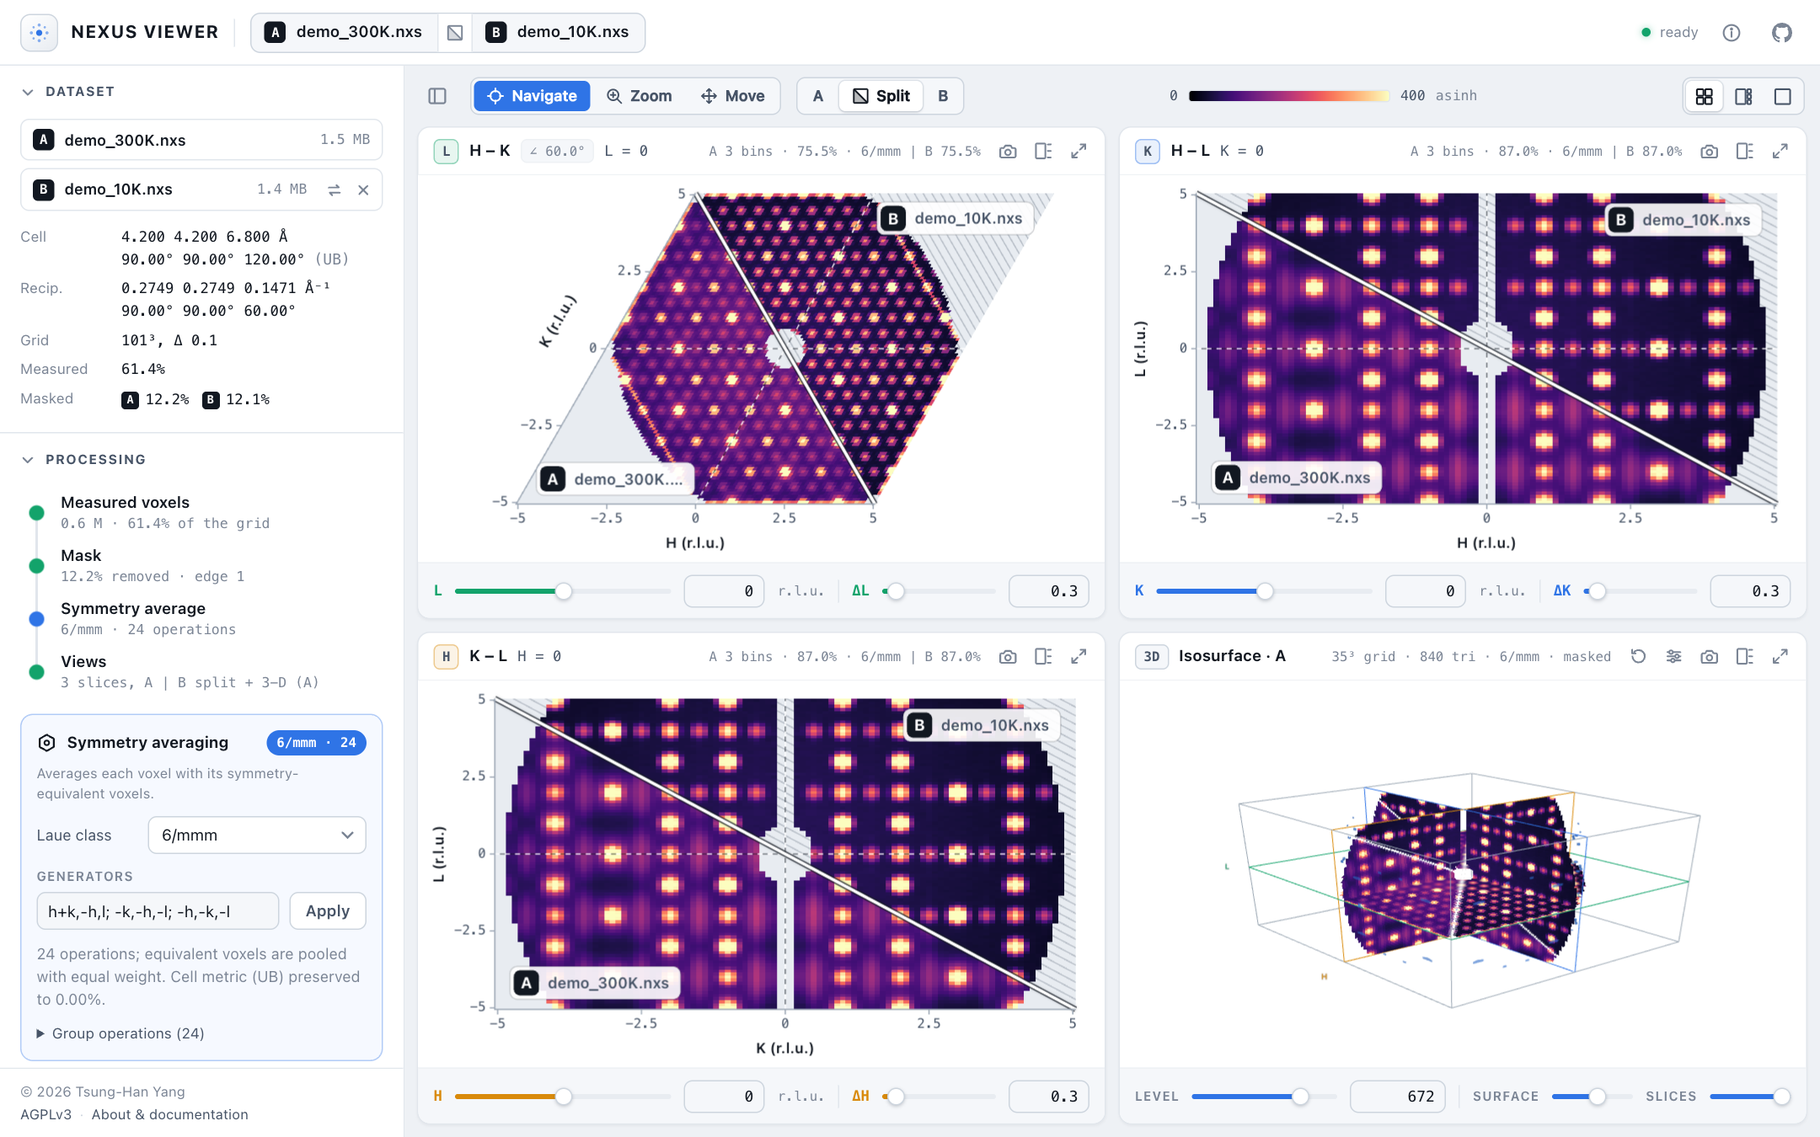
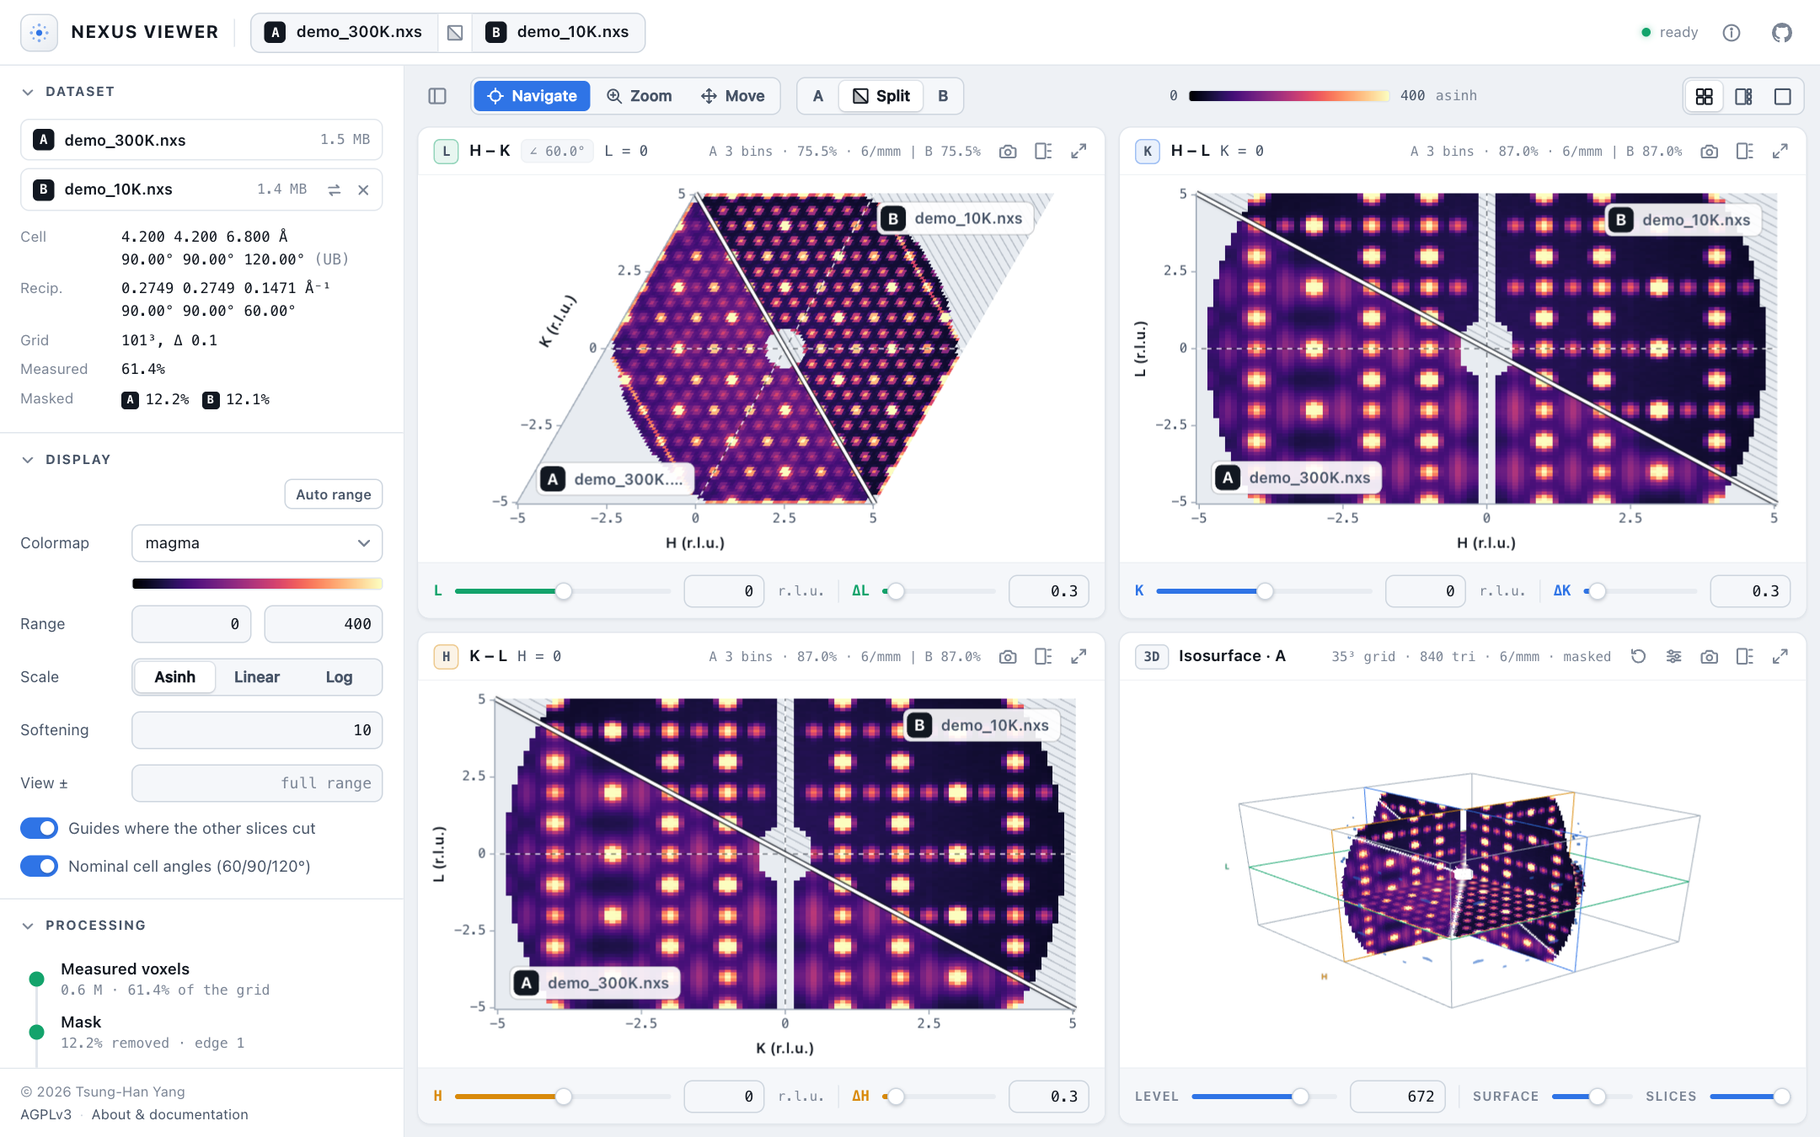
Order the panel as the workflow: Dataset, Display, Processing, then Export to NEBULA3D

Changed region(s): [[0.0, 0.4356, 0.2171, 0.9333], [0.031, 0.3733, 0.062, 0.4044]]

diff --git a/index.html b/index.html
@@ -175,7 +175,9 @@ body.panel-collapsed .panel { visibility: hidden; }
 .credit .sep { margin: 0 6px; color: var(--border-strong); }
 .credit a { color: var(--text-2); text-decoration: none; }
 .credit a:hover { color: var(--accent-hi); text-decoration: underline; }
-.panel-foot { position: sticky; bottom: 0; margin-top: auto; display: flex; flex-direction: column; gap: 2px; padding: 10px 16px; border-top: 1px solid var(--border); background: var(--surface); }
+.panel-foot { position: sticky; bottom: 0; margin-top: auto; display: flex; flex-direction: column; gap: 2px; padding: 10px 16px; border-top: 1px solid var(--border); background: var(--surface); z-index: 3; }
+/* Scrolled-to elements stop above the sticky footer. */
+.panel .sub, .panel .psec-body { scroll-margin-bottom: 64px; }
 .psec { border-bottom: 1px solid var(--border); }
 .psec-head { display: flex; align-items: center; gap: 8px; width: 100%; height: 42px; padding: 0 16px; border: 0; background: transparent; cursor: pointer; text-align: left; }
 .psec-head:hover .psec-title { color: var(--text); }
@@ -245,6 +247,8 @@ body.panel-collapsed .panel { visibility: hidden; }
 .legend { display: flex; align-items: center; gap: 8px; min-width: 0; font-family: var(--font-mono); font-size: 11px; color: var(--text-2); }
 .legend canvas { width: 160px; height: 10px; border-radius: 3px; border: 1px solid var(--border); }
 .legend .scale-name { color: var(--text-3); }
+.legend { cursor: pointer; padding: 4px 8px; border-radius: var(--radius-sm); }
+.legend:hover { background: var(--surface); }
 .workspace { flex: 1; min-height: 0; padding: 0 10px 10px; display: grid; gap: 10px; }
 .workspace.quad { grid-template-columns: repeat(2, minmax(0, 1fr)); grid-template-rows: repeat(2, minmax(0, 1fr)); }
 .workspace.focus { grid-template-columns: minmax(0, 2.2fr) minmax(0, 1fr); grid-template-rows: repeat(3, minmax(0, 1fr)); }
@@ -470,6 +474,22 @@ body.dragging.drop-b::after { content: "Drop to compare as dataset B"; }
       </div>
     </section>
 
+    <section class="psec" data-sec="display">
+      <button class="psec-head" type="button" aria-expanded="true"><svg class="chev" width="12" height="12" viewBox="0 0 12 12" aria-hidden="true"><path d="M2.5 4.5 6 8l3.5-3.5" fill="none" stroke="currentColor" stroke-width="1.4" stroke-linecap="round" stroke-linejoin="round"/></svg><span class="psec-title">Display</span><span id="sum-display" class="psec-sum"></span></button>
+      <div class="psec-body">
+        <div class="inline" style="justify-content: flex-end; margin-top: -6px"><button id="auto" class="btn btn-ghost btn-xs" type="button" title="vmin 0, vmax at the 97th percentile and softening at the median of positive values in the current slices">Auto range</button></div>
+        <div class="prow"><label class="plabel" for="cmap">Colormap</label><select id="cmap"></select></div>
+        <div class="prow"><span class="plabel"></span><canvas id="cmap-bar" class="cbar-panel" width="256" height="1" aria-hidden="true"></canvas></div>
+        <div class="prow"><span class="plabel">Range</span><span class="pair"><input id="vmin" class="num" type="number" step="any" aria-label="vmin" title="vmin"><input id="vmax" class="num" type="number" step="any" aria-label="vmax" title="vmax"></span></div>
+        <div class="prow"><span class="plabel">Scale</span>
+          <div id="scale" class="segmented fill" data-value="asinh" role="group" aria-label="Color scale"><button type="button" data-value="asinh" class="on">Asinh</button><button type="button" data-value="linear">Linear</button><button type="button" data-value="log">Log</button></div></div>
+        <div id="soft-wrap" class="prow" title="Asinh softening: values below it are shown nearly linearly"><label class="plabel" for="soft">Softening</label><input id="soft" class="num" type="number" min="0" step="any"></div>
+        <div class="prow" title="Show ± this many r.l.u. around the origin; empty for the full range"><label class="plabel" for="limit">View ±</label><input id="limit" class="num" type="number" min="0" step="any" placeholder="full range"></div>
+        <label class="switch"><input id="guides" type="checkbox" checked><span class="switch-track"></span><span class="switch-label">Guides where the other slices cut</span></label>
+        <label id="angles-wrap" class="switch" title="Snap direct-cell angles within 1° of 60°, 90° or 120°"><input id="angles" type="checkbox" checked><span class="switch-track"></span><span class="switch-label">Nominal cell angles (60/90/120°)</span></label>
+      </div>
+    </section>
+
     <section class="psec" data-sec="processing">
       <button class="psec-head" type="button" aria-expanded="true"><svg class="chev" width="12" height="12" viewBox="0 0 12 12" aria-hidden="true"><path d="M2.5 4.5 6 8l3.5-3.5" fill="none" stroke="currentColor" stroke-width="1.4" stroke-linecap="round" stroke-linejoin="round"/></svg><span class="psec-title">Processing</span><span id="sum-processing" class="psec-sum"></span></button>
       <div class="psec-body">
@@ -478,6 +498,7 @@ body.dragging.drop-b::after { content: "Drop to compare as dataset B"; }
           <li id="pipe-mask" class="off" data-target="mask"><span class="pipe-dot"></span><span class="pipe-name">Mask<small id="pipe-mask-text">off</small></span></li>
           <li id="pipe-sym" class="off" data-target="symmetry"><span class="pipe-dot"></span><span class="pipe-name">Symmetry average<small id="pipe-sym-text">none</small></span></li>
           <li class="ok"><span class="pipe-dot"></span><span class="pipe-name">Views<small id="pipe-views">3 slices + 3-D</small></span></li>
+          <li id="pipe-export" class="off" data-target="export"><span class="pipe-dot"></span><span class="pipe-name">NEBULA3D · 3D-ΔPDF<small id="pipe-export-text">next analysis: export the volume</small></span></li>
         </ol>
 
         <div id="symmetry" class="sub">
@@ -513,32 +534,21 @@ body.dragging.drop-b::after { content: "Drop to compare as dataset B"; }
           </div>
         </div>
 
+      </div>
+    </section>
+    <section class="psec" data-sec="export">
+      <button class="psec-head" type="button" aria-expanded="true"><svg class="chev" width="12" height="12" viewBox="0 0 12 12" aria-hidden="true"><path d="M2.5 4.5 6 8l3.5-3.5" fill="none" stroke="currentColor" stroke-width="1.4" stroke-linecap="round" stroke-linejoin="round"/></svg><span class="psec-title">Export</span><span id="sum-export" class="psec-sum">NEBULA3D · 3D-ΔPDF</span></button>
+      <div class="psec-body">
         <div id="export" class="sub">
           <div class="sub-head">
             <svg width="16" height="16" viewBox="0 0 18 18" fill="none" stroke="currentColor" stroke-width="1.6" stroke-linecap="round" stroke-linejoin="round" aria-hidden="true"><path d="M9 11V2.5M5.5 6 9 2.5 12.5 6"/><path d="M3 10.5v3.5a1.5 1.5 0 0 0 1.5 1.5h9a1.5 1.5 0 0 0 1.5-1.5v-3.5"/></svg>
-            <span class="sub-title">Export for NEBULA3D</span><span id="export-state" class="state">3D-ΔPDF</span>
+            <span class="sub-title">NEBULA3D · 3D-ΔPDF</span><span id="export-state" class="state">ready</span>
           </div>
-          <p class="sub-hint">Sends the masked, symmetrized volume to NEBULA3D's 3D-ΔPDF pipeline in a new tab, or saves it as a file.</p>
+          <p class="sub-hint">The last step here: hand the masked, symmetrized volume to NEBULA3D for 3D-ΔPDF analysis, in a new tab or as a file.</p>
           <p id="export-status" class="note"></p>
           <div id="export-progress" class="boot-bar" hidden><div id="export-bar" class="boot-fill"></div></div>
           <span class="inline"><button id="export-open" class="btn btn-primary" type="button" style="flex: 1" title="Open NEBULA3D in a new tab and load this volume there">Open in NEBULA3D ↗</button><button id="export-run" class="btn btn-ghost" type="button" title="Save the file, to load it in NEBULA3D with Load volume…">Download</button></span>
         </div>
-      </div>
-    </section>
-
-    <section class="psec" data-sec="display">
-      <button class="psec-head" type="button" aria-expanded="true"><svg class="chev" width="12" height="12" viewBox="0 0 12 12" aria-hidden="true"><path d="M2.5 4.5 6 8l3.5-3.5" fill="none" stroke="currentColor" stroke-width="1.4" stroke-linecap="round" stroke-linejoin="round"/></svg><span class="psec-title">Display</span><span id="sum-display" class="psec-sum"></span></button>
-      <div class="psec-body">
-        <div class="inline" style="justify-content: flex-end; margin-top: -6px"><button id="auto" class="btn btn-ghost btn-xs" type="button" title="vmin 0, vmax at the 97th percentile and softening at the median of positive values in the current slices">Auto range</button></div>
-        <div class="prow"><label class="plabel" for="cmap">Colormap</label><select id="cmap"></select></div>
-        <div class="prow"><span class="plabel"></span><canvas id="cmap-bar" class="cbar-panel" width="256" height="1" aria-hidden="true"></canvas></div>
-        <div class="prow"><span class="plabel">Range</span><span class="pair"><input id="vmin" class="num" type="number" step="any" aria-label="vmin" title="vmin"><input id="vmax" class="num" type="number" step="any" aria-label="vmax" title="vmax"></span></div>
-        <div class="prow"><span class="plabel">Scale</span>
-          <div id="scale" class="segmented fill" data-value="asinh" role="group" aria-label="Color scale"><button type="button" data-value="asinh" class="on">Asinh</button><button type="button" data-value="linear">Linear</button><button type="button" data-value="log">Log</button></div></div>
-        <div id="soft-wrap" class="prow" title="Asinh softening: values below it are shown nearly linearly"><label class="plabel" for="soft">Softening</label><input id="soft" class="num" type="number" min="0" step="any"></div>
-        <div class="prow" title="Show ± this many r.l.u. around the origin; empty for the full range"><label class="plabel" for="limit">View ±</label><input id="limit" class="num" type="number" min="0" step="any" placeholder="full range"></div>
-        <label class="switch"><input id="guides" type="checkbox" checked><span class="switch-track"></span><span class="switch-label">Guides where the other slices cut</span></label>
-        <label id="angles-wrap" class="switch" title="Snap direct-cell angles within 1° of 60°, 90° or 120°"><input id="angles" type="checkbox" checked><span class="switch-track"></span><span class="switch-label">Nominal cell angles (60/90/120°)</span></label>
       </div>
     </section>
     <footer class="panel-foot credit"><span>© 2026 Tsung-Han Yang</span><span><a href="https://github.com/drthyang/neutron-nexus-viewer/blob/main/LICENSE" target="_blank" rel="noopener noreferrer">AGPLv3</a><span class="sep" aria-hidden="true">·</span><a href="https://github.com/drthyang/neutron-nexus-viewer#readme" target="_blank" rel="noopener noreferrer">About &amp; documentation</a></span></footer>
@@ -564,7 +574,7 @@ body.dragging.drop-b::after { content: "Drop to compare as dataset B"; }
         <button type="button" data-value="b" title="Show dataset B only">B</button>
       </div>
       <span class="spacer"></span>
-      <span class="legend" title="Shared color scale (set it in the Display section)">
+      <span id="legend" class="legend" role="button" tabindex="0" title="Shared color scale: click to set it in the Display section">
         <span id="legend-min">0</span><canvas id="legend-bar" width="256" height="1" aria-hidden="true"></canvas><span id="legend-max">1</span><span id="legend-scale" class="scale-name">asinh</span>
       </span>
       <span class="spacer"></span>

diff --git a/js/app.js b/js/app.js
@@ -385,11 +385,8 @@ const handlers = {
       return;
     }
     download(blob, name);
-    $('export-state').textContent = 'saved';
-    $('export-state').className = 'state ok';
-    $('export-status').className = 'note ok';
-    $('export-status').textContent = `Saved ${name} (${mb(blob.size)}, ${pct(stats.valid / stats.total)} of voxels valid) in ${seconds.toFixed(1)} s. `
-      + 'In NEBULA3D, open it with Load volume…';
+    exportNote('ok', 'saved', `Saved ${name} (${mb(blob.size)}, ${pct(stats.valid / stats.total)} of voxels valid) in ${seconds.toFixed(1)} s. `
+      + 'In NEBULA3D, open it with Load volume…');
   },
   'export-error': ({ message }) => {
     if (exportJob?.send) endHandoff(`the viewer could not build the volume: ${message}`);
@@ -1404,22 +1401,20 @@ function showMask(seconds) {
 /** The Export card: what would be exported, or why it cannot be. */
 function showExport() {
   if (exportJob || !meta) return;
-  const statusEl = $('export-status'), state = $('export-state');
+  const statusEl = $('export-status');
   $('export-progress').hidden = true;
   let plan;
   try {
     plan = exportPlan(meta.dims, meta.lattice);
   } catch (err) {
     $('export-run').disabled = $('export-open').disabled = true;
-    state.textContent = 'unavailable';
-    state.className = 'state';
+    exportState('', 'unavailable');
     statusEl.className = 'note error';
     statusEl.textContent = err.message;
     return;
   }
   $('export-run').disabled = $('export-open').disabled = false;
-  state.textContent = '3D-ΔPDF';
-  state.className = 'state';
+  exportState('', 'ready');
   const sym = symmetry.ops.length > 1, voxels = plan.shape.reduce((a, b) => a * b);
   const parts = [
     `${plan.shape.join(' × ')} (H × K × L)${plan.padded ? ', padded to be symmetric about 0' : ''}`,
@@ -1466,8 +1461,7 @@ function runExport(send = false) {
   };
   exportJob = { name: `${stem()}_${sym ? `sym${symmetry.name.replace(/\//g, '')}` : 'unsym'}.nxs`, send, attrs };
   $('export-run').disabled = $('export-open').disabled = true;
-  $('export-state').textContent = 'working…';
-  $('export-state').className = 'state busy';
+  exportState('busy', 'working…');
   status('busy', 'exporting');
   showExportProgress('Symmetrizing', 0);
   worker.postMessage({ type: 'export', id: ++requestId, plan: { order, lo, size, shape, centers, ub }, maps, attrs });
@@ -1475,10 +1469,18 @@ function runExport(send = false) {
 }
 
 function exportNote(kind, state, text) {
-  $('export-state').textContent = state;
-  $('export-state').className = `state ${kind}`;
+  exportState(kind, state);
   $('export-status').className = `note${kind === 'ok' ? ' ok' : kind === 'error' ? ' error' : ''}`;
   $('export-status').textContent = text;
+}
+
+/** The export's state badge, its section summary and the pipeline's NEBULA3D step. */
+function exportState(kind, state) {
+  $('export-state').textContent = state;
+  $('export-state').className = `state ${kind}`.trim();
+  $('sum-export').textContent = `NEBULA3D · ${state}`;
+  $('pipe-export').className = kind === 'ok' ? 'ok' : 'off';
+  $('pipe-export-text').textContent = { sent: 'volume sent to NEBULA3D', saved: 'volume saved for NEBULA3D' }[state] ?? 'next analysis: export the volume';
 }
 
 /**
@@ -1962,18 +1964,20 @@ for (const sec of document.querySelectorAll('.psec')) {
   };
 }
 try { if (localStorage.getItem('nxv-panel') === 'closed') setPanel(false); } catch { /* storage unavailable */ }
-for (const li of document.querySelectorAll('.pipeline li[data-target]')) {
-  li.onclick = () => {
-    setPanel(true);
-    const sec = li.closest('.psec');
-    if (sec.classList.contains('collapsed')) sec.querySelector('.psec-head').click();
-    const target = $(li.dataset.target);
-    target.scrollIntoView({ block: 'nearest', behavior: 'smooth' });
-    target.classList.remove('flash');
-    void target.offsetWidth;
-    target.classList.add('flash');
-  };
+/** Show a panel element: open the panel and its section, scroll to it and flash it. */
+function reveal(target) {
+  setPanel(true);
+  const sec = target.closest('.psec');
+  if (sec?.classList.contains('collapsed')) sec.querySelector('.psec-head').click();
+  target.scrollIntoView({ block: 'nearest', behavior: 'smooth' });
+  target.classList.remove('flash');
+  void target.offsetWidth;
+  target.classList.add('flash');
 }
+for (const li of document.querySelectorAll('.pipeline li[data-target]')) li.onclick = () => reveal($(li.dataset.target));
+// The legend above the views opens the color settings.
+$('legend').onclick = () => reveal(document.querySelector('.psec[data-sec="display"] .psec-body'));
+$('legend').onkeydown = (e) => { if (e.key === 'Enter' || e.key === ' ') { e.preventDefault(); $('legend').click(); } };
 $('sym-preset').onchange = () => {
   const preset = PRESETS.find(([name]) => name === $('sym-preset').value);
   if (!preset) { $('sym-ops').focus(); return; }

diff --git a/docs/USER_GUIDE.md b/docs/USER_GUIDE.md
@@ -20,11 +20,12 @@ The histogram is held in memory as float32. A 401³ volume needs about 260 MB an
 ## The screen
 
 - **Top bar**: the open file (A and B, joined by the split icon, when comparing), the engine status, and ⓘ for dataset details, a summary of the method and links to these guides. Long file names are shortened in the middle; hover for the full name.
-- **Control panel** (left, collapsible; each section folds to a one-line summary):
+- **Control panel** (left, collapsible; each section folds to a one-line summary), in the order you work:
   - **Dataset**: unit cell (from UB), reciprocal lattice, grid and measured fraction, and the Compare card for opening a second dataset.
-  - **Processing**: the pipeline *Measured voxels → Mask → Symmetry average → Views*, followed by the Symmetry and Mask controls. Active stages are highlighted.
   - **Display**: colormap, color range, scale, view range, guides and cell angles.
-- **Workspace**: a header row with the click mode, the shared color legend and the layout, then four views (HK, HL, KL and 3-D).
+  - **Processing**: the pipeline *Measured voxels → Mask → Symmetry average → Views → NEBULA3D*, followed by the Symmetry and Mask controls. Active stages are highlighted, and clicking a stage jumps to its controls.
+  - **Export**: the last step, handing the processed volume to NEBULA3D.
+- **Workspace**: a header row with the click mode, the shared color legend (click it for the Display settings) and the layout, then four views (HK, HL, KL and 3-D).
 - **Panel footer**: copyright, the license and a link to this documentation. The ⓘ popover links to each guide.
 
 Below 1000 px wide, or on short screens, the panel sits above the views and the page scrolls.
@@ -92,7 +93,7 @@ Once B is open, the Dataset section lists both files and one table for the two: 
 
 ## Export for NEBULA3D
 
-**Processing → Export for NEBULA3D** hands the processed volume to the 3D-ΔPDF pipeline of [NEBULA3D](https://github.com/drthyang/nebula3d). NEBULA3D does not symmetrize, so choose a Laue class (and a mask) first.
+The **Export** section at the bottom of the panel hands the processed volume to the 3D-ΔPDF pipeline of [NEBULA3D](https://github.com/drthyang/nebula3d). NEBULA3D does not symmetrize, so choose a Laue class (and a mask) first.
 
 - **Open in NEBULA3D** opens NEBULA3D in a new tab and builds the volume while it starts; NEBULA3D then loads it and selects it as its dataset, ready to configure and run. The card reports when NEBULA3D has loaded it. If the browser blocks the tab, allow pop-ups for this site.
 - **Download** saves the same file, to open in NEBULA3D with *Load volume…* (or to put in the data folder of its desktop app).

diff --git a/README.md b/README.md
@@ -14,7 +14,7 @@ file, or [the example](https://drthyang.github.io/neutron-nexus-viewer/?demo): o
 short-range-order diffuse scattering condenses into superlattice peaks.
 
 <p align="center">
-  <img src="docs/screenshot.png" alt="NeXus Viewer comparing the example crystal at 300 K and 10 K: the HK, HL and KL slices are each cut along their diagonal, with 300 K in the lower-left half, showing diffuse rods at the M points, and 10 K in the upper-right half, showing sharp superlattice peaks there. The control panel lists both files in one Dataset table and shows the processing pipeline with 6/mmm symmetry averaging and a mask; the 3-D view shows the isosurface with the split slice planes." width="100%" />
+  <img src="docs/screenshot.png" alt="NeXus Viewer comparing the example crystal at 300 K and 10 K: the HK, HL and KL slices are each cut along their diagonal, with 300 K in the lower-left half, showing diffuse rods at the M points, and 10 K in the upper-right half, showing sharp superlattice peaks there. The control panel lists both files in one Dataset table, then the Display settings and the processing pipeline with 6/mmm symmetry averaging and a mask; the 3-D view shows the isosurface with the split slice planes." width="100%" />
 </p>
 
 ## Goals
@@ -50,9 +50,8 @@ short-range-order diffuse scattering condenses into superlattice peaks.
 3. Click a slice to move the other two through that point. Switch the header to
    **Zoom** or **Move** to explore, and **Focus** to show one view large.
 4. To compare, open a second file under **Dataset → Compare two datasets**.
-5. For a 3D-ΔPDF, choose **Open in NEBULA3D** under **Processing → Export for
-   NEBULA3D**: [NEBULA3D](https://drthyang.github.io/nebula3d/) opens with the
-   volume loaded.
+5. For a 3D-ΔPDF, choose **Open in NEBULA3D** in the **Export** section:
+   [NEBULA3D](https://drthyang.github.io/nebula3d/) opens with the volume loaded.
 
 ## Run locally
 
